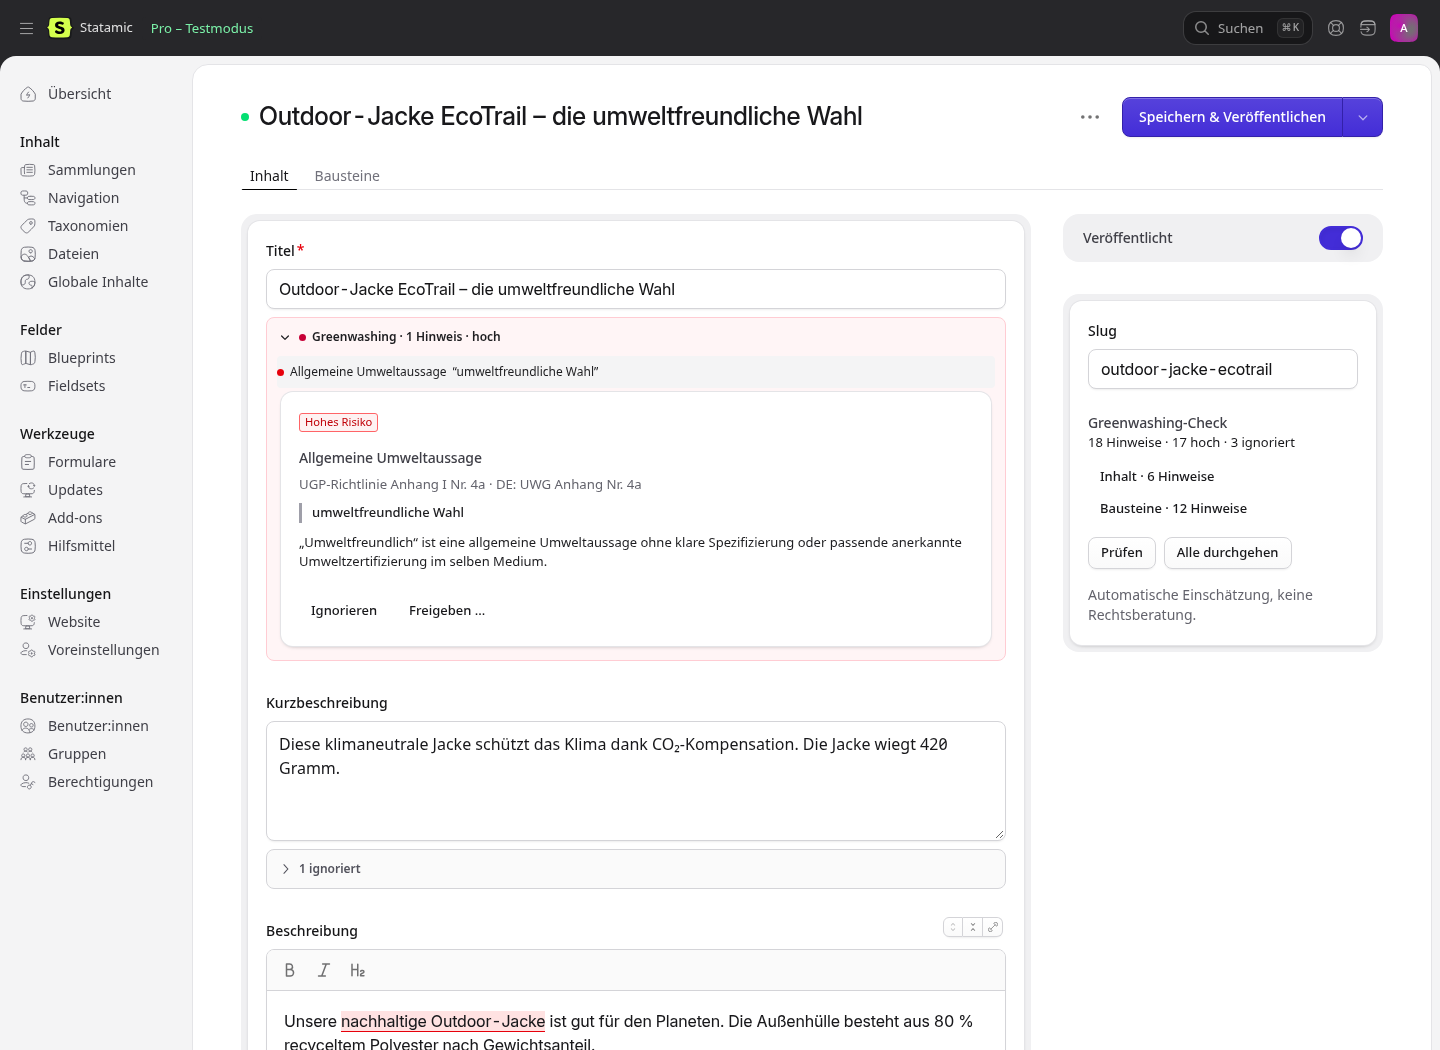
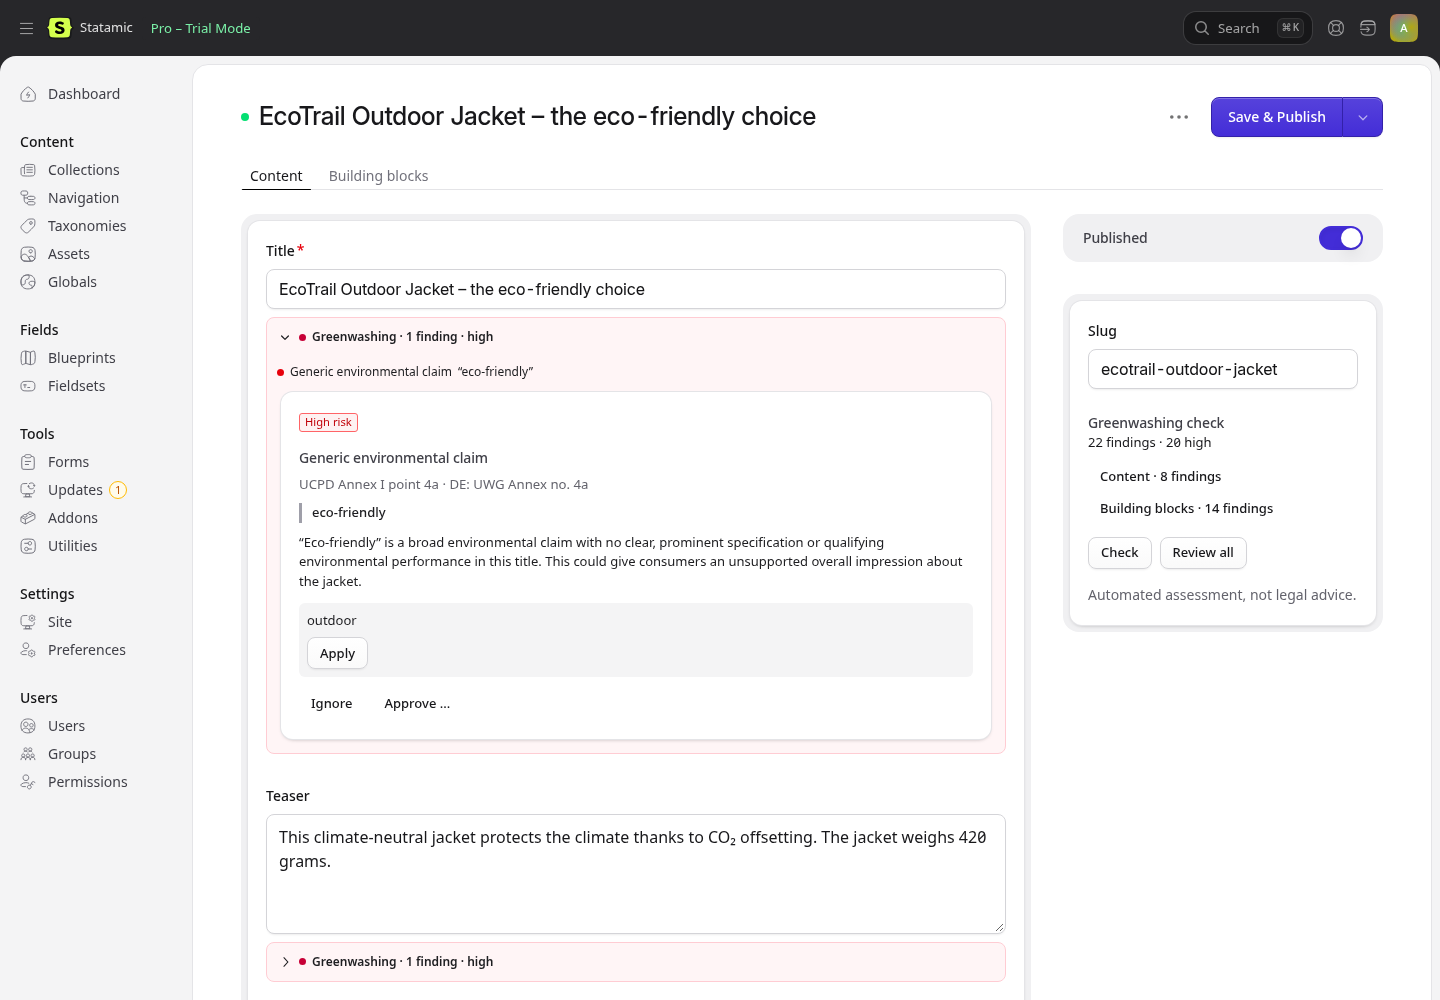
docs: rewrite readme for adopters with english screenshots

diff --git a/README.md b/README.md
@@ -1,96 +1,146 @@
-# Greenwashing Checker — public beta
+# Statamic Greenwashing Checker
 
-AI-assisted checks against EU greenwashing rules for marketing copy in Statamic entries. Directive 2024/825 (EmpCo) amends the Unfair Commercial Practices Directive and applies EU-wide from 27 September 2026. Findings pair EU references with German UWG references and come with explanations and suggested rewrites. The addon flags potential risks; it never establishes compliance, and it is not legal advice.
+> Flags greenwashing risks in Statamic entries while editors write. Covers the EU rules on environmental claims (Directive 2024/825, “EmpCo”), which apply from 27 September 2026.
 
-Requires PHP 8.3+, Statamic 6.20+ (or 5.74, see below) and a Prism-compatible LLM provider, usually a paid API account. UI and prompts support German and English.
+Phrases like “eco-friendly”, “climate-neutral thanks to offsetting” or “100 % green” become per-se violations across the EU under EmpCo. This addon sends entry text to an LLM of your choice. It marks risky claims in the field where they appear, explains the risk and suggests a rewrite that editors can apply with one click.
 
-## Statamic 5
+The addon flags potential risks. It is not legal advice and does not establish compliance.
 
-Statamic 5.74+ works on Laravel 11 or 12 only (Prism requires Laravel 11+; Statamic 5 on Laravel 10 cannot install this addon). Backend analysis, storage, `greenwashing:scan`, and the JSON endpoints are identical. Settings come from the published config file only — Statamic 5 has no addon settings API, so CP-only rules (substantiations, house rules, audience, jurisdiction sites) stay empty. The CP panel is a single sidebar panel with Check/Retry, a status summary, and a Review-all sheet (Statamic 5's own stack component) with the same information design as Statamic 6: open/ignored switcher, compact rows grouped by tab and field, one expanded row at a time with references, suggestions, Apply for top-level text/textarea/markdown fields, Ignore/Show again, and jump-to-field. Bard marks, inline boxes, publish warnings, approvals, and the Inertia utility are Statamic 6 only (a read-only Blade utility lists scan summaries on v5).
+![Findings in the entry editor](https://raw.githubusercontent.com/el-schneider/statamic-greenwashing-checker/main/screenshots/inline-expanded.png)
 
-## Install
+## Features
 
-Until the package is on Packagist, add the VCS repository to your application's `composer.json`:
+- **Checks while editing**: a sidebar panel checks unsaved text. Findings appear below each affected field, including fields nested in Bard, Replicator, Grid and Group. Risky phrases in Bard are highlighted.
+- **Suggested rewrites**: each finding has one to three replacements. **Apply** replaces only the quoted phrase and keeps the editor’s undo history.
+- **Nine risk categories**, mapped to the EmpCo/UCPD articles. German sites can also show the matching UWG references.
+- **Context-aware**: your real certificates and licences (“substantiations”) and house rules go into the prompt, so documented claims are not flagged. B2B collections skip the consumer-only per-se rules.
+- **Review workflow**: editors can ignore a finding, or approve it with a documented reason (separate permission). Approvals are stored as content files you can commit to Git.
+- **Publish warning**: publishing an entry with open high-risk findings asks for confirmation. It never blocks.
+- **Bulk scans**: scan saved content from the CLI or from a CP utility that ranks entries by risk.
+- **Any Prism provider**: OpenAI, Anthropic, Gemini, Mistral, OpenRouter, Ollama and more, via [Prism](https://prismphp.com). Results are cached per text, so unchanged copy is never sent twice.
+- **German and English** UI. Explanations follow the editor’s CP language; suggested rewrites follow the entry’s language.
 
-```json
-{
-  "repositories": [
-    { "type": "vcs", "url": "git@github.com:el-schneider/statamic-greenwashing-checker.git" }
-  ],
-  "minimum-stability": "dev",
-  "prefer-stable": true
-}
+| Review all findings | Scan saved content |
+| :-- | :-- |
+| ![Review stack](https://raw.githubusercontent.com/el-schneider/statamic-greenwashing-checker/main/screenshots/stack.png) | ![Scan utility](https://raw.githubusercontent.com/el-schneider/statamic-greenwashing-checker/main/screenshots/utility.png) |
+
+## Requirements
+
+- PHP 8.3+
+- Statamic 6.20+, or Statamic 5.74+ on Laravel 11/12 with a reduced feature set (see [Statamic 5](#statamic-5))
+- An API key for an LLM provider supported by Prism. Each check is one paid API call.
+
+## Installation
+
+```bash
+composer require el-schneider/statamic-greenwashing-checker
 ```
 
-Private repositories require GitHub SSH access.
+Set a model and its provider key in `.env`. The model string is `<prism-provider>/<model>`:
 
-```sh
-composer require el-schneider/statamic-greenwashing-checker:@dev
-php artisan vendor:publish --tag=greenwashing-checker-config
-php artisan statamic:install
+```dotenv
+GREENWASHING_CHECKER_MODEL=openai/gpt-6-luna
+OPENAI_API_KEY=sk-...
+
+# or, for example, through OpenRouter:
+# GREENWASHING_CHECKER_MODEL=openrouter/openai/gpt-6-luna
+# OPENROUTER_API_KEY=sk-or-...
 ```
 
-Use a cache shared by HTTP processes and queue workers. The `sync` queue works; a separate worker is optional.
+Provider keys come from Prism’s own `config/prism.php`. Until a key is configured, the panel shows a setup notice and nothing is sent.
+
+Open any entry: the **Greenwashing check** panel appears in the sidebar for all collections.
 
 ## Configuration
 
-```dotenv
-GREENWASHING_CHECKER_MODEL=openrouter/openai/gpt-6-luna
-OPENROUTER_API_KEY=your-provider-key
+Editors and admins configure most things in the CP under **Addons → Greenwashing Checker → Settings**:
+
+| Setting | Effect |
+| :-- | :-- |
+| Substantiations | Certificates and licences you hold, with their scope. Claims they cover are not flagged. |
+| House rules | Extra editorial guidance for the model. It cannot switch off the legal checks. |
+| Audience per collection | B2C (default) or B2B. B2B skips the consumer per-se rules and downgrades findings to medium. |
+| Enabled categories | Turn individual risk categories off. |
+| Legal references | `eu` shows EmpCo/UCPD references; `de` adds German UWG references. Can differ per site. |
+| Collections, placement, check on blur, publish warning | Where and when checks run. |
+
+To change the model, timeout or the defaults for these settings, publish the config:
+
+```bash
+php artisan vendor:publish --tag=greenwashing-checker-config
 ```
 
-The default model is `openai/gpt-6-luna` and needs `OPENAI_API_KEY`. The model string splits on its first `/`, so nested OpenRouter names work; Prism reads provider credentials from its own `prism.providers` config. Nothing is sent until a model and its credentials are configured.
+The comments in `config/statamic/greenwashing-checker.php` explain each option. CP settings override the config file.
 
-All other options live in the published `config/statamic/greenwashing-checker.php`: collections, automatic checks, panel placement, publish warnings, categories and the context budget. Analysis rules — substantiations, house rules, audience and jurisdictions — are edited in the control panel under Add-ons → Greenwashing Checker → Settings; CP selections override config defaults.
+### Exclude fields
 
-Displayed legal references come from a jurisdiction pack chosen in CP settings. See [CONTRIBUTING.md](CONTRIBUTING.md) for what packs contain and how to propose one.
-
-Disable checks for a field or an entire container in its blueprint:
+Fields with internal or non-marketing text can opt out in the blueprint. On a Replicator, Grid, Group or Bard field this excludes everything inside it:
 
 ```yaml
-field:
-  type: textarea
-  greenwashing_checker: false
+-
+  handle: internal_notes
+  field:
+    type: textarea
+    greenwashing_checker: false
 ```
 
-## What editors see
+### Panel placement
 
-- The sidebar panel checks unsaved entry text. **Prüfen** (Check) runs the analysis; **Alle durchgehen** (Review all) opens a review stack with open, ignored and approved findings, grouped by field.
-- Each affected field gets an inline box below the input, nested fields and Bard included; open findings in Bard prose also get severity-tinted highlights.
-- **Übernehmen** (Apply) replaces the first matching quote and uses the editor's undo history (Ctrl/Cmd+Z). A changed quote produces an error instead of replacing unrelated text.
-- **Ignorieren** (Ignore) sets a finding aside until the text or the analysis settings change. **Freigeben …** (Approve) records a documented decision; it requires a reason and the `approve greenwashing findings` permission.
-- Leaving a changed field schedules a check after one second (`check_on_blur`). Publishing with HIGH findings, ignored ones included, warns with an explicit publish-anyway action.
+`placement` can be `sidebar` (default), `tab` (separate tab) or `none`. With `none`, add the **Greenwashing Checker** fieldtype to a blueprint where you want the panel.
 
-![Findings sidebar](https://raw.githubusercontent.com/el-schneider/statamic-greenwashing-checker/main/screenshots/panel.png)
-![Review stack](https://raw.githubusercontent.com/el-schneider/statamic-greenwashing-checker/main/screenshots/stack.png)
-![Expanded inline findings](https://raw.githubusercontent.com/el-schneider/statamic-greenwashing-checker/main/screenshots/inline-expanded.png)
+### Customize the prompt
 
-## Scan existing content
+The system and user prompts are Blade views. Publish them to adjust wording or add rules:
 
-```sh
-php please greenwashing:scan --collection=products
+```bash
+php artisan vendor:publish --tag=greenwashing-checker-prompts
 ```
 
-Omit filters to scan all enabled collections and sites. `--dry-run` reports uncached text without provider calls; `--prune` deletes stored analyses that no saved entry references. In the CP, **Utilities → Greenwashing-Check** queues the same analysis and lists entries by open HIGH count; it requires `scan greenwashing findings`.
+Cached results do not notice prompt edits. Delete `storage/statamic/greenwashing-checker/units/` to have all text checked again.
 
-Analysis results are stored in `storage/statamic/greenwashing-checker/` with no expiry; keep the directory out of Git and prune it with `greenwashing:scan --prune`. Approvals are editorial JSON records in `content/greenwashing-checker/approvals/` — include that directory in backups and editorial Git workflows.
+### Permissions
 
-## Data flow and cost
+| Permission | Allows |
+| :-- | :-- |
+| Approve greenwashing findings | Approving findings with a documented reason |
+| Scan existing content for greenwashing | Using the scan utility |
 
-- Entry text is sent to the configured LLM provider on manual checks, on leaving a changed field (`check_on_blur`), and for publish warnings. Set `check_on_blur: false` and `on_publish: off` for manual-only use.
-- Nothing is sent until a model and its credentials are configured. There is no telemetry.
-- The provider receives uncached target text, capped entry context, company substantiations and locale codes. This may include unpublished copy; opt out sensitive fields. Provider retention and processing policies apply.
-- Provider error details may appear in the private application log. Credentials are not added to log context; clients receive fixed error messages.
-- Findings and dismissal metadata (user ID and timestamp) stay in the application's persistent unit store, with no TTL. Tracked job results expire after one hour. Approvals are stored separately as editorial records.
-- Each uncached check makes one structured LLM call. Context incurs tokens too. Costs depend on model and provider pricing; unchanged text reuses cached findings.
+Running a check requires permission to edit the entry.
+
+## Scanning existing content
+
+```bash
+php please greenwashing:scan                      # all enabled collections and sites
+php please greenwashing:scan --collection=products --site=default
+php please greenwashing:scan --dry-run            # count unchecked text, no API calls
+php please greenwashing:scan --prune              # delete stored results no entry uses
+```
+
+The CLI writes explanations in the app locale. The **Utilities → Greenwashing check** page starts the same scan from the CP and lists entries by open high-risk findings. Long scans need a queue worker. The default `sync` queue runs them inline.
+
+## Data, storage and cost
+
+- **What is sent**: the text of changed fields, a capped amount of surrounding entry context (`max_context_chars`), your substantiations and house rules. This can include unpublished copy. Opt out sensitive fields.
+- **When**: on **Check**, one second after an editor leaves a changed field (`check_on_blur`), and on scans. Set `check_on_blur` to `false` for manual-only checks.
+- **Cost**: one structured LLM call per check, for uncached text only. Results are keyed by text and analysis settings, so unchanged copy reuses its findings.
+- **Storage**: results are stored in `storage/statamic/greenwashing-checker/` without expiry. Approvals are stored in `content/greenwashing-checker/approvals/`. Commit and back up approvals like other content.
+- No telemetry. Provider retention policies apply.
+
+## Statamic 5
+
+Statamic 5 has no addon settings API and no Inertia CP. Analysis, caching, the scan command and the review sheet work the same way. These parts are Statamic 6 only:
+
+- CP settings. Configure through the config file instead; substantiations, house rules, audience and per-site references stay empty.
+- Inline field boxes, Bard highlights, publish warnings and approvals. The Statamic 5 panel lives in the sidebar, and **Apply** works on top-level text, textarea and markdown fields.
+- The interactive scan utility. Statamic 5 gets a read-only list; use `greenwashing:scan` to scan.
 
 ## Limitations
 
-- Text fields only. No images, logos, labels or asset text are examined.
-- The model can miss or over-flag claims; truncated context can omit a qualification.
-- Entry text is treated as data in the prompt, but LLM prompt injection remains a risk.
-- No output establishes compliance with EU or national law. The fixed disclaimer is “Automatische Einschätzung, keine Rechtsberatung.” Seek qualified legal advice for publication decisions.
+- Only text is checked. Images, logos and labels in assets are not.
+- The model can miss claims or flag harmless ones. Truncated context can hide a qualification made elsewhere on the page.
+- Entry text is passed to the model as data, but prompt injection remains possible.
+- Legal references cover the EU and Germany. Other national implementations can be contributed, see [CONTRIBUTING.md](CONTRIBUTING.md).
 
-## Support and license
+## License
 
-Community support via https://github.com/el-schneider/statamic-greenwashing-checker/issues. No SLA. MIT license, Jonas List.
+MIT. Support through [GitHub issues](https://github.com/el-schneider/statamic-greenwashing-checker/issues), no SLA.
